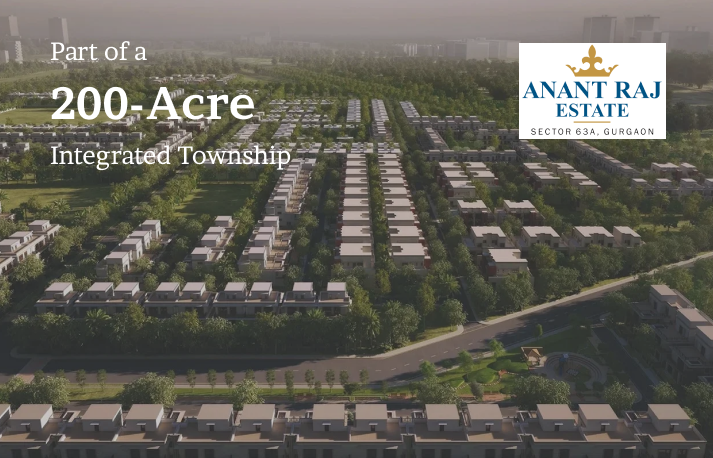
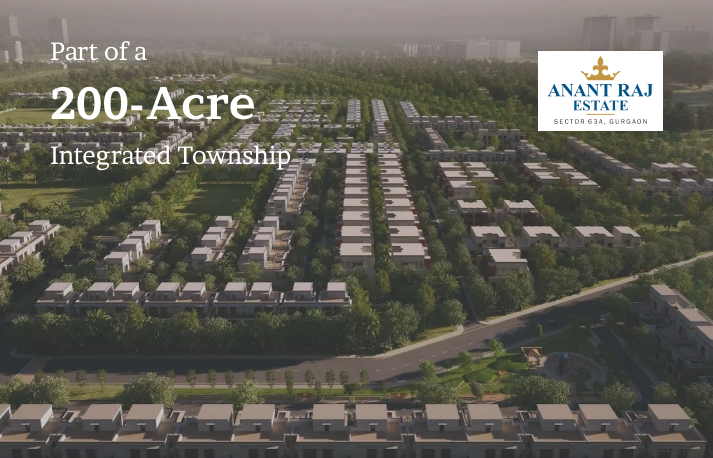
ADD AGAIN

Changed region(s): [[0.7097, 0.0917, 0.9565, 0.3057]]

diff --git a/index.html b/index.html
@@ -143,7 +143,7 @@
           >
             <!-- ===== HERO ===== -->
             <tr>
-              <td style="background: #481b22">
+              <td style="background: #690d11">
                 <div class="" style="position: relative">
                   <!-- <img
                     src="https://anantrajlimited.com/estate-one/img/project_logo.svg"
